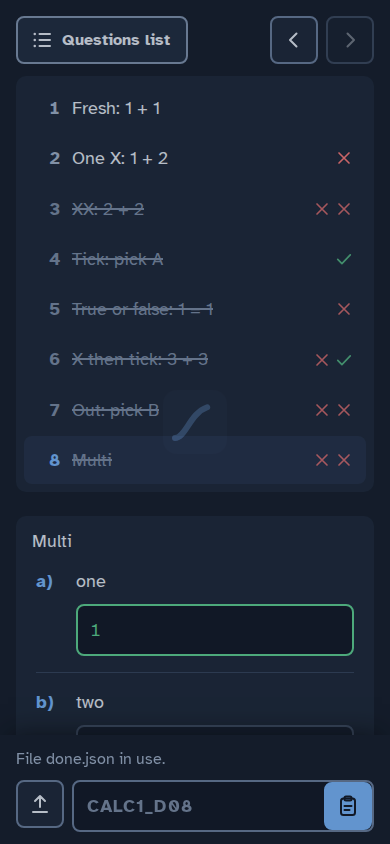
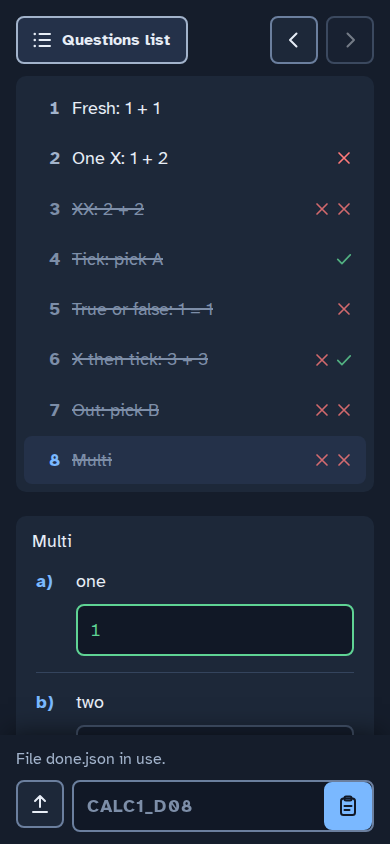
Done questions: drain a 404 /state, wait out the splash in done tests, DONE.md as built
Claude-Session: https://claude.ai/code/session_01L4UjqL8Y1bLinHi3qY7t4r

diff --git a/app.js b/app.js
@@ -574,7 +574,7 @@ function repaint(rec) {
 async function syncServer(mine) {
   const st = doneStore(); if (!st || !mine || off()) return;
   let s;
-  try { const r = await net(`state/${mine.code}`, { credentials: "same-origin" }); if (!r.ok) return; s = await r.json(); }
+  try { const r = await net(`state/${mine.code}`, { credentials: "same-origin" }); if (!r.ok) { r.text().catch(() => {}); return; } s = await r.json(); }   // drain a 404 so the request completes
   catch { return; }                                            // unreachable or slow: the cache stands
   if (S !== mine || busy) return;
   const p = mine.prob, max = maxTries(p), c = st.doneGet(mine.code), us = units(c, p), ss = s.parts || [s];

diff --git a/design/DONE.md b/design/DONE.md
@@ -5,7 +5,23 @@ Tony (brain, Sep 29 ~01:00-01:05 PT):
 - question list: crossed out + greyed (NOT disabled), tick for correct, one X per wrong try;
 - "for the XXs, cross them out too, bcs technically u cannot answer that anymore": crossed out = can't be answered any more. One X with a try left stays un-crossed.
 
-Status: **design only**. Mockups below; nothing is built until Tony picks.
+Status: **built** (Tony approved variant A, tries.json, and re-showing the old hint). 2-choice = 1 try came from main (#10).
+
+## As built (differences from the plan below)
+
+- Record: `{ v: 2, units: [{ x, done, hint, gen, sigs? }], x, done, tries, hints }`. One unit per problem, **one per part for a
+  multi** (main #17 grades each part alone). Top level feeds the list: `x` = all wrong tries, `done` = `correct` when every
+  unit is right, `out` when every unit is closed and one isn't. `sigs` (upload only) are the wrong answers' signatures so
+  grading resumes after a reload (repeats still don't count).
+- `hint` is the Cluck hint for the student's own last wrong answer; reopening a question (or part) with tries used shows it again.
+- `/state/<CODE>` returns `{wrong, done, gen}`, or `{parts: [...]}` for a multi. `/check` replies carry `gen`.
+- tries.json: `{ "gen": N, "tries": { "<sid> <CODE>": {...}, "<sid> <CODE> <part>": {...} } }`, written atomically after
+  every graded try; `$STEM_TRIES` overrides the path (tests). Blocked from serving, git-ignored; deploy.sh's checkout keeps it.
+- Code: `offline.js` (store `done`, DB v2, `doneGet/donePut/doneDrop`, `drill:state`), `app.js` (`saveDone`, `paint`,
+  `syncServer`, `seedLocal`), `nav.js`/`nav.css` (marks), `serve.py` (`state`, `_load_tries/_save_tries`, gen).
+- Tests: `tests/done.pw.mjs` (starts and restarts its own server), `tests/test_serve.py` (`Persist`, `/state`).
+  render/swap tests clear cookies per page (a new sid = fresh server tries, now that tries outlive a page).
+
 
 ## 1. What a question's state is
 
